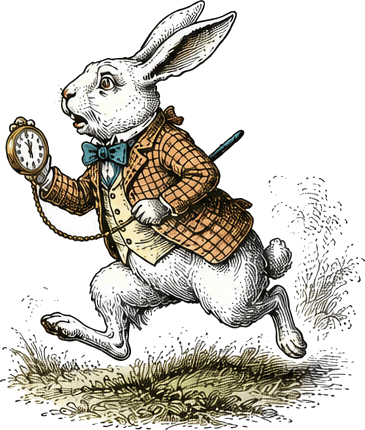
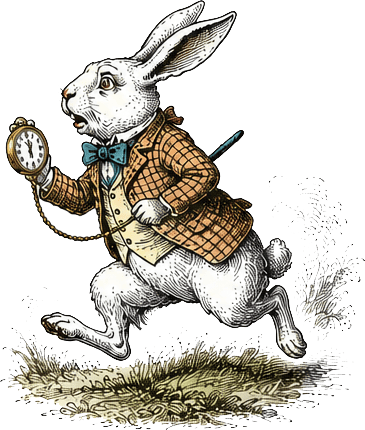
Re-cut all 11 Alice characters from user's true transparent PNGs (real alpha) — interior gaps now clear (between Tweedles, tree pockets, caterpillar smoke intact); cache-bust art to v=3

diff --git a/index.html b/index.html
@@ -464,7 +464,7 @@
     </div>
   </div>
   <button class="mushroom" id="mushroom" aria-label="Eat Me, grow">
-    <img src="assets/art/eatme-mushroom.png?v=1" alt="" aria-hidden="true">
+    <img src="assets/art/eatme-mushroom.png?v=3" alt="" aria-hidden="true">
   </button>
 </section>
 
@@ -526,7 +526,7 @@
 <!-- SERVICES -->
 <section id="services">
   <div class="tenniel" style="right:0;top:8%;width:min(430px,38%)"><img src="assets/tenniel/teaparty.png" alt="" aria-hidden="true"></div>
-  <button class="teacup-spot" id="teacupSpot" aria-label="A cup of tea"><img src="assets/art/teacup.png?v=1" alt="" aria-hidden="true"></button>
+  <button class="teacup-spot" id="teacupSpot" aria-label="A cup of tea"><img src="assets/art/teacup.png?v=3" alt="" aria-hidden="true"></button>
   <div class="wrap">
     <div class="eyebrow">The Tea Party Menu</div>
     <h2 class="sec-title">What we do</h2>
@@ -547,7 +547,7 @@
 
 <!-- PIERCINGS -->
 <section id="piercings">
-  <button class="cater-spot" id="caterSpot" aria-label="The Caterpillar"><img src="assets/art/caterpillar.png?v=1" alt="" aria-hidden="true"></button>
+  <button class="cater-spot" id="caterSpot" aria-label="The Caterpillar"><img src="assets/art/caterpillar.png?v=3" alt="" aria-hidden="true"></button>
   <div class="wrap">
     <div class="eyebrow">Sit for a Spell</div>
     <h2 class="sec-title">Piercing price list</h2>
@@ -586,7 +586,7 @@
 
 <!-- STEP INSIDE THE SHOP -->
 <section id="shop">
-  <button class="char-spot" id="shopChar" aria-label="Tweedledee and Tweedledum" style="left:1%;bottom:4%;width:min(190px,20%)"><img src="assets/art/tweedles.png?v=1" alt="" aria-hidden="true"></button>
+  <button class="char-spot" id="shopChar" aria-label="Tweedledee and Tweedledum" style="left:1%;bottom:4%;width:min(190px,20%)"><img src="assets/art/tweedles.png?v=3" alt="" aria-hidden="true"></button>
   <div class="wrap">
     <div class="eyebrow">Fell Down the Rabbit Hole</div>
     <h2 class="sec-title">Step inside the shop</h2>
@@ -600,7 +600,7 @@
 <!-- GALLERY -->
 <section class="gallery" id="gallery">
   <div class="tenniel" style="left:0;top:7%;width:min(320px,26%)"><img src="assets/tenniel/door.png" alt="" aria-hidden="true"></div>
-  <button class="char-spot" id="galleryChar" aria-label="The Queen of Hearts" style="right:2%;top:3%;width:min(150px,15%)"><img src="assets/art/queen.png?v=1" alt="" aria-hidden="true"></button>
+  <button class="char-spot" id="galleryChar" aria-label="The Queen of Hearts" style="right:2%;top:3%;width:min(150px,15%)"><img src="assets/art/queen.png?v=3" alt="" aria-hidden="true"></button>
   <div class="wrap">
     <div class="eyebrow">The Hall of Doors</div>
     <h2 class="sec-title">The Showcase</h2>
@@ -616,7 +616,7 @@
 
 <!-- ARTISTS -->
 <section id="artists">
-  <button class="char-spot" id="artistsChar" aria-label="The Cheshire Cat" style="right:0;bottom:2%;width:min(320px,26%)"><img src="assets/art/cheshire-cat.png?v=1" alt="" aria-hidden="true"></button>
+  <button class="char-spot" id="artistsChar" aria-label="The Cheshire Cat" style="right:0;bottom:2%;width:min(320px,26%)"><img src="assets/art/cheshire-cat.png?v=3" alt="" aria-hidden="true"></button>
   <div class="wrap">
     <div class="eyebrow">The Mad Ones</div>
     <h2 class="sec-title">Our artists</h2>
@@ -647,7 +647,7 @@
 
 <!-- PRESS & RECOGNITION -->
 <section id="press" style="background:linear-gradient(180deg,transparent,var(--tint),transparent),var(--midnight)">
-  <button class="char-spot" id="pressChar" aria-label="The Dodo" style="left:2%;bottom:6%;width:min(180px,19%)"><img src="assets/art/dodo.png?v=1" alt="" aria-hidden="true"></button>
+  <button class="char-spot" id="pressChar" aria-label="The Dodo" style="left:2%;bottom:6%;width:min(180px,19%)"><img src="assets/art/dodo.png?v=3" alt="" aria-hidden="true"></button>
   <div class="wrap">
     <div class="eyebrow">Featured &amp; Recognized</div>
     <h2 class="sec-title">Press &amp; awards</h2>
@@ -694,7 +694,7 @@
 
 <!-- VISIT -->
 <section id="book" style="background:var(--midnight)">
-  <button class="char-spot" id="bookChar" aria-label="The White Rabbit's watch" style="right:2%;bottom:5%;width:min(130px,14%)"><img src="assets/art/pocketwatch.png?v=2" alt="" aria-hidden="true"></button>
+  <button class="char-spot" id="bookChar" aria-label="The White Rabbit's watch" style="right:2%;bottom:5%;width:min(130px,14%)"><img src="assets/art/pocketwatch.png?v=3" alt="" aria-hidden="true"></button>
   <div class="wrap">
     <div class="eyebrow">Don't Be Late</div>
     <h2 class="sec-title">Book an appointment</h2>
@@ -730,7 +730,7 @@
 </section>
 
 <section id="visit" style="background:linear-gradient(180deg,transparent,var(--tint),transparent),var(--midnight)">
-  <button class="char-spot" id="visitChar" aria-label="The White Rabbit" style="right:2%;top:3%;width:min(140px,15%)"><img src="assets/art/whiterabbit.png?v=1" alt="" aria-hidden="true"></button>
+  <button class="char-spot" id="visitChar" aria-label="The White Rabbit" style="right:2%;top:3%;width:min(140px,15%)"><img src="assets/art/whiterabbit.png?v=3" alt="" aria-hidden="true"></button>
   <div class="wrap">
     <div class="eyebrow">Find the Rabbit Hole</div>
     <h2 class="sec-title">Visit the shop</h2>
@@ -796,11 +796,11 @@
 </svg>
 <div class="chesh-quote" id="cheshQuote" aria-hidden="true"></div>
 <button class="drinkme" id="drinkme" aria-label="Drink Me">
-  <img src="assets/art/drinkme-bottle.png?v=1" alt="" aria-hidden="true">
+  <img src="assets/art/drinkme-bottle.png?v=3" alt="" aria-hidden="true">
 </button>
-<button class="rabbit" id="rabbit" aria-label="Follow the White Rabbit"><img src="assets/art/running-rabbit.png?v=1" alt="" aria-hidden="true"></button>
+<button class="rabbit" id="rabbit" aria-label="Follow the White Rabbit"><img src="assets/art/running-rabbit.png?v=3" alt="" aria-hidden="true"></button>
 <div class="watch-pop" id="watchPop" role="dialog" aria-label="Shop hours">
-  <div class="w" aria-hidden="true"><img src="assets/art/pocketwatch.png?v=1" alt=""></div>
+  <div class="w" aria-hidden="true"><img src="assets/art/pocketwatch.png?v=3" alt=""></div>
   <b>"I'm late! I'm late!"</b>
   <span>...but you're not. We're open every day, 12 to 9. Walk-ins always welcome.</span>
 </div>
@@ -1238,9 +1238,9 @@
     "“Nohow. Contrariwise! That's logic.”"
   ];
   let twi = 0;
-  function tweedle(){ toast('👬 ' + tweedleLines[twi % tweedleLines.length]); twi++; apparition('assets/art/tweedles.png?v=1'); }
+  function tweedle(){ toast('👬 ' + tweedleLines[twi % tweedleLines.length]); twi++; apparition('assets/art/tweedles.png?v=3'); }
   /* ---------- Queen of Hearts (type q-u-e-e-n) ---------- */
-  function queen(){ toast('👑 “Off with their heads!”'); apparition('assets/art/queen.png?v=1'); if(!reduce) rainCards(30); }
+  function queen(){ toast('👑 “Off with their heads!”'); apparition('assets/art/queen.png?v=3'); if(!reduce) rainCards(30); }
 
   /* triggers: Konami code, or type a secret word */
   const konami = [38,38,40,40,37,39,37,39,66,65]; let ki = 0;
